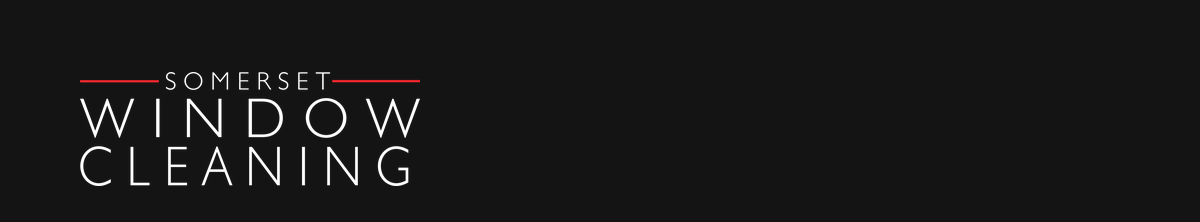
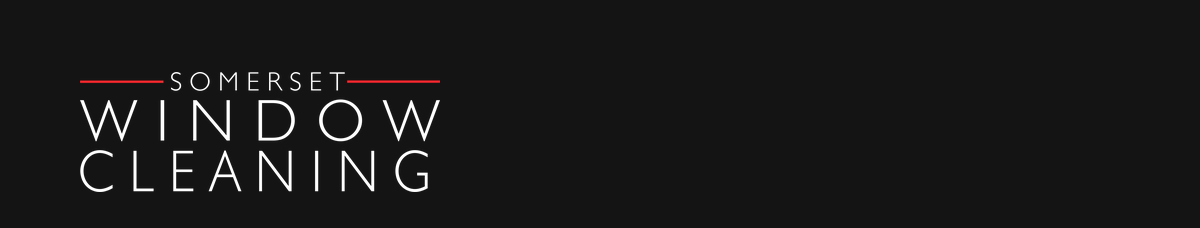
Livery bars: larger wordmark for phones, even heights
Header wordmark 280 css px (footer 180) so phones, which scale the
600 px bar, keep the previous logo size; even css heights avoid
Outlook hairlines at 125/150% scaling.

Changed region(s): [[0.0617, 0.4324, 0.37, 0.6216], [0.0617, 0.6486, 0.37, 0.8378], [0.0617, 0.2973, 0.37, 0.4054]]

diff --git a/README.md b/README.md
@@ -11,8 +11,8 @@ Canonical source: https://somersetwindowcleaning.co.uk
 - `swc-logo-email-darkmode.jpg` — 360×164, flattened black-background JPEG for signatures in clients that transform dark-mode HTML colours
 - `swc-logo-white-on-ink-480.png` — 480×170, white wordmark flattened on ink (#141414); the Livery header and footer until 29 Sep 2026, kept so older sent emails still load
 - `swc-livery-seam-1200.png` — 1200×192, the van-livery swirl strip that joins the dark email header to the white body
-- `swc-livery-header-1200.png` — 1200×310, white wordmark on a full-width ink bar with rounded top corners; the Livery email header (29 Sep 2026). A client that strips the dark cell background still shows a header bar, not a floating black box
-- `swc-livery-footer-1200.png` — 1200×222, the same bar with a left-aligned wordmark for the Livery email footer
+- `swc-livery-header-1200.png` — 1200×324, white wordmark on a full-width ink bar with rounded top corners; the Livery email header (29 Sep 2026). A client that strips the dark cell background still shows a header bar, not a floating black box
+- `swc-livery-footer-1200.png` — 1200×228, the same bar with a left-aligned wordmark for the Livery email footer
 - `swc-logo-ink-tile-576.png` — 576×235, ink wordmark on a white tile with an even margin (rendered from the unchanged website `logo-ink.svg`); displayed at 192×78 in the Dan and Sean email signatures, so dark-mode clients show a clean white tile
 
 Logo is white-on-transparent. Place on a dark background or use the navy/charcoal variant from the website when needed on light backgrounds.
